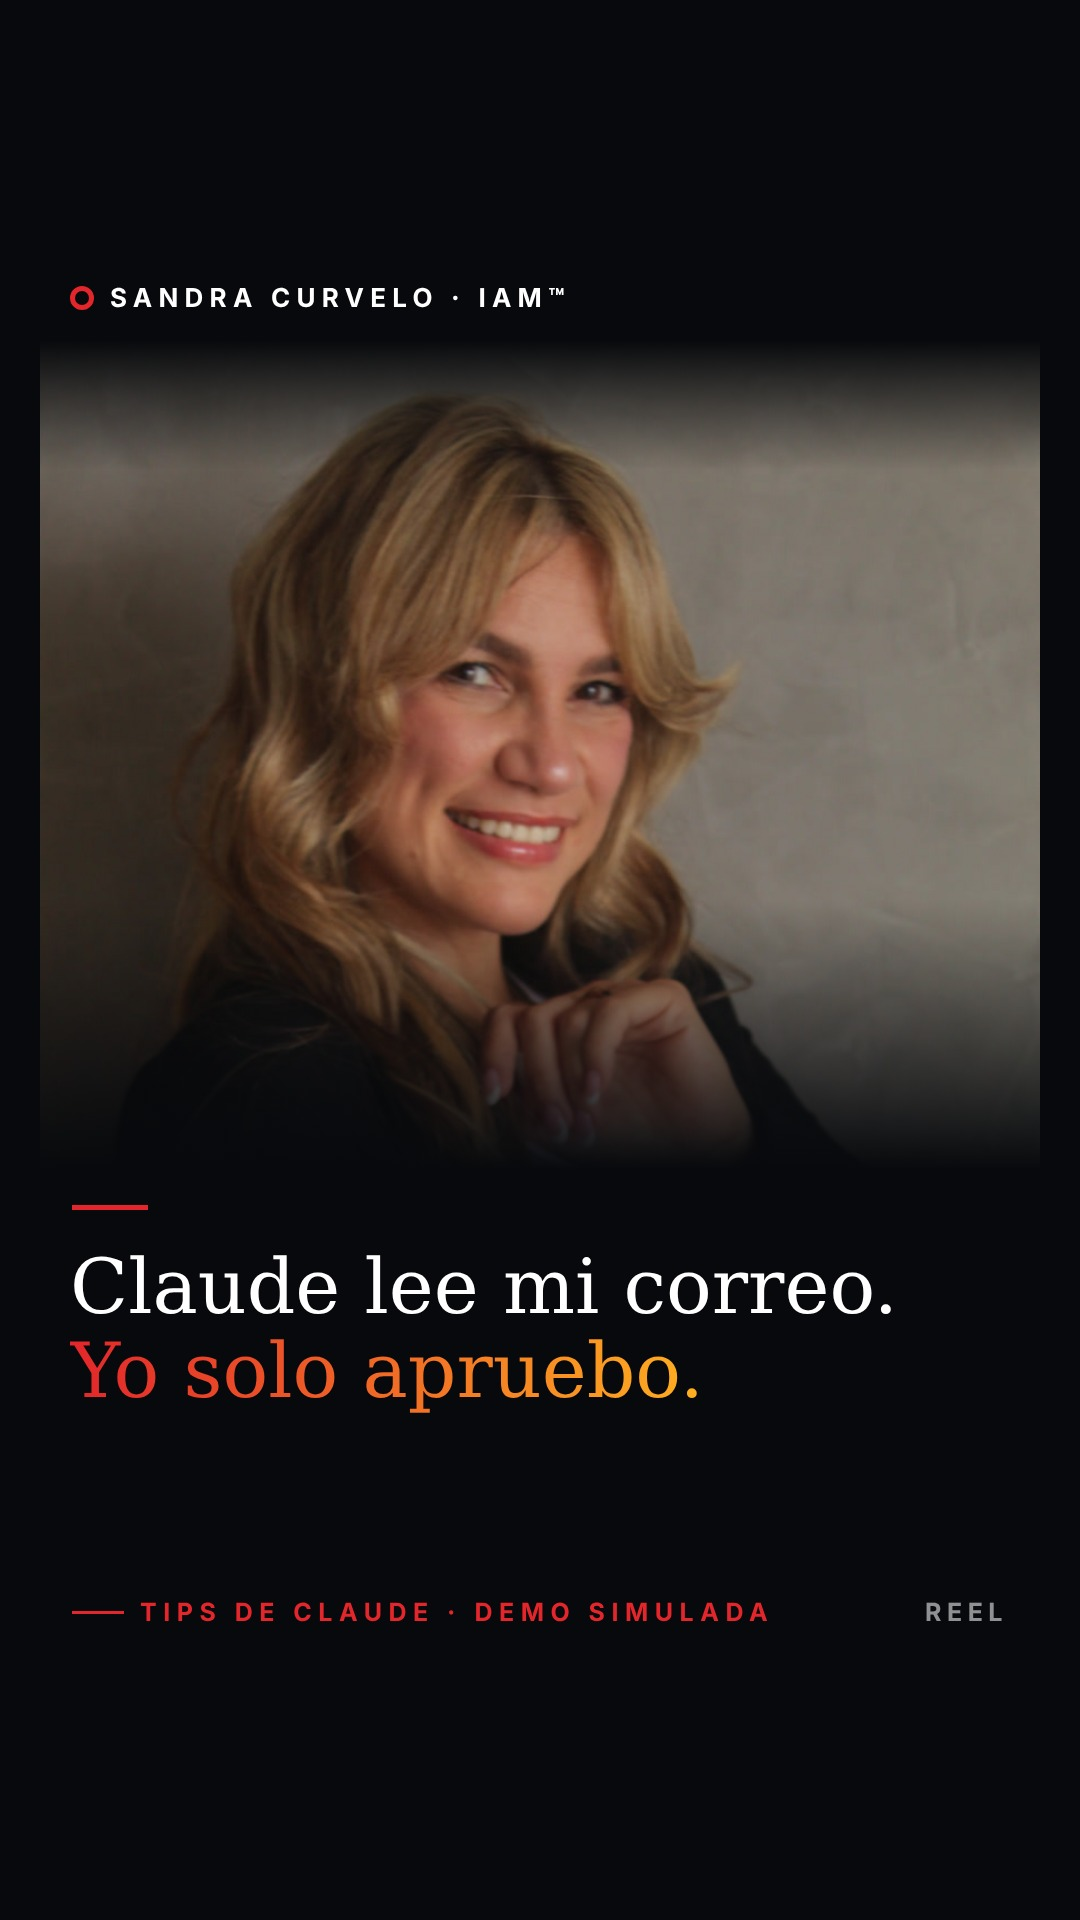
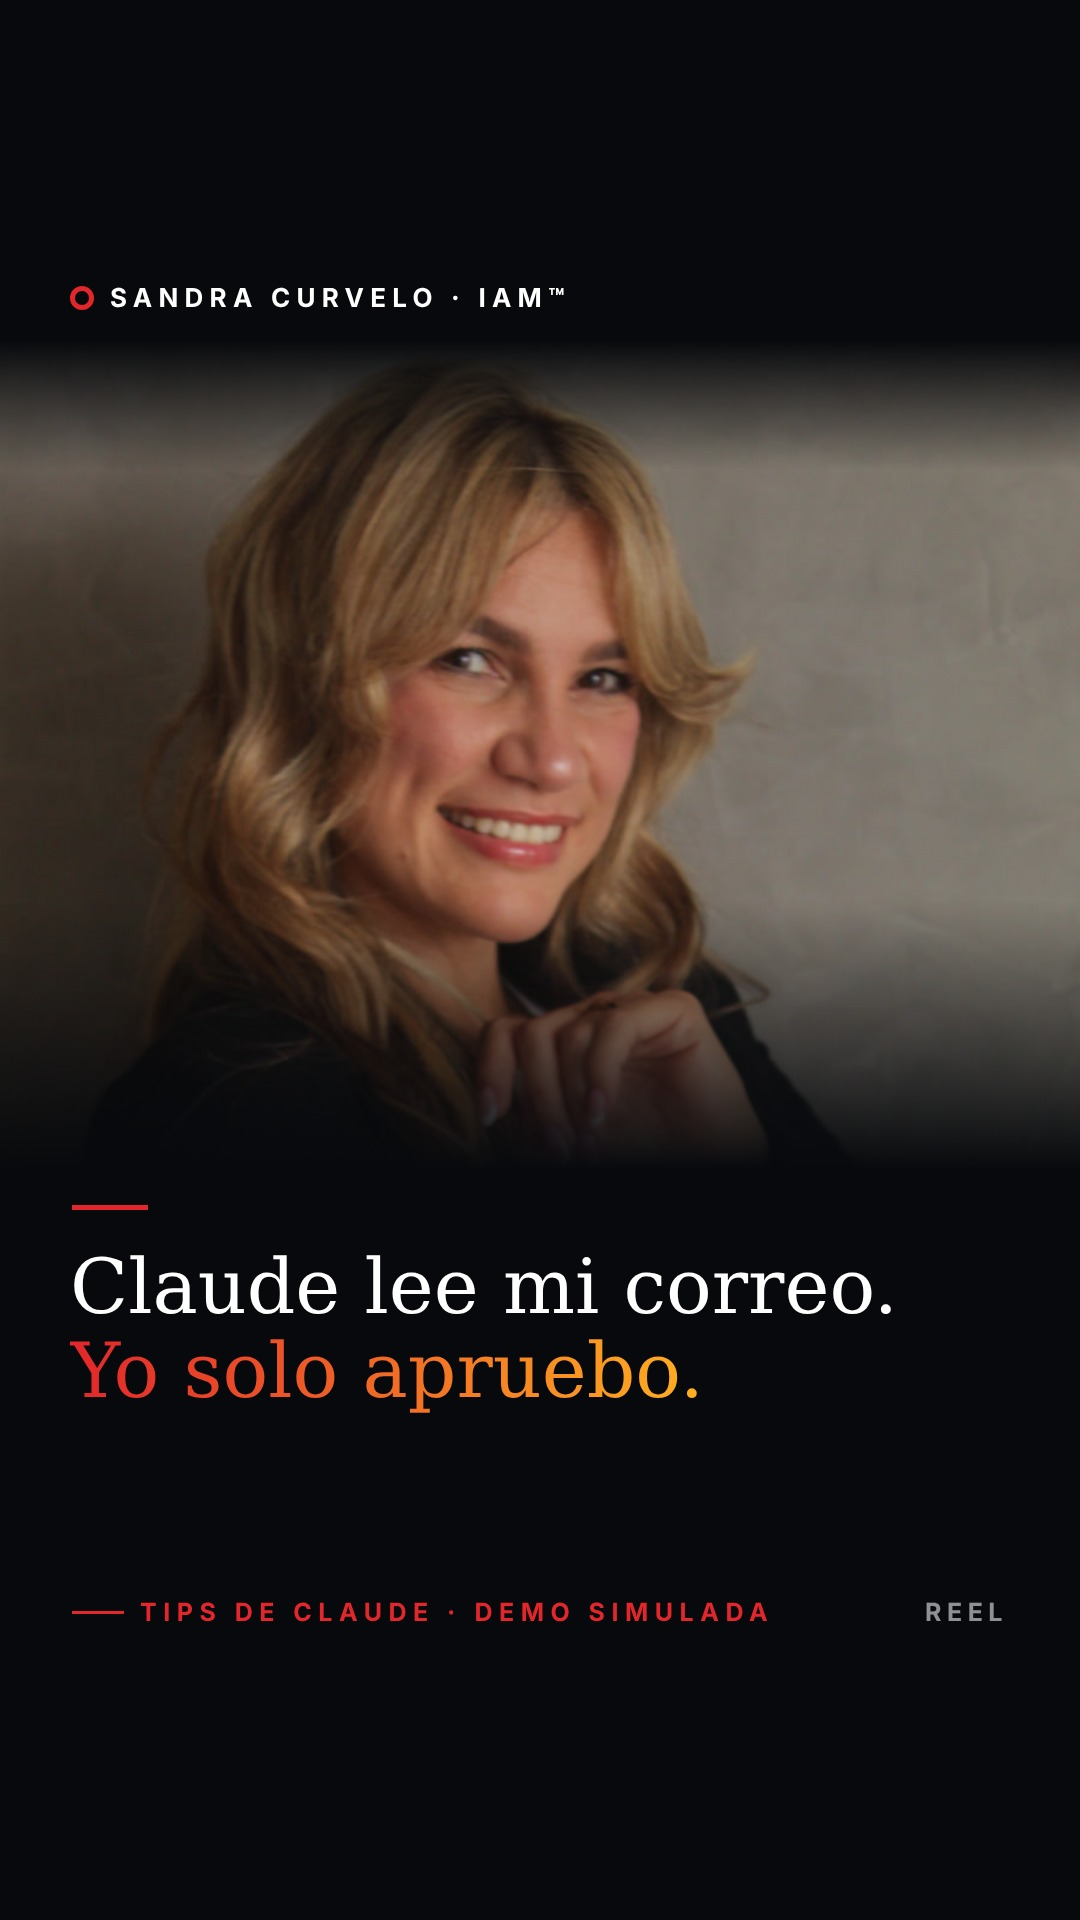
Portadas: foto a todo el ancho y ajuste de encuadre
Claude-Session: https://claude.ai/code/session_01NfWH1YnxdbRLc9ZrUJbHYq

diff --git a/estrategia/instagram/diseno-feed/gen.py b/estrategia/instagram/diseno-feed/gen.py
@@ -1,12 +1,12 @@
 import sys
 P=[
 ("agentica","conectores.jpg","dark","Claude no solo escribe.","Trabaja por ti.","Tips de Claude",(1250,0,50)),
-("iae","iae2.jpg","dark","Pagaste la IA.","¿Alguien la usa?","Método IAE™",(1000,0,50)),
+("iae","iae2.jpg","dark","Pagaste la IA.","¿Alguien la usa?","Método IAE™",(1080,-40,50)),
 ("matia","robot.jpg","light","Claude actualiza","mi CRM.","Tips de Claude · Demo simulada",(1450,0,62)),
-("prospecta","gorra.jpg","light","Claude prospecta.","Yo apruebo.","Tips de Claude · Demo simulada",(900,0,50)),
+("prospecta","gorra.jpg","light","Claude prospecta.","Yo apruebo.","Tips de Claude · Demo simulada",(1080,-170,50)),
 ("alpina","alpina.jpg","dark","No llames en frío.","Llega sabiendo.","Recuerdos",(1300,-540,50)),
 ("udes","udes.jpg","light","No es interrupción.","Es intención.","Recuerdos",(1300,-430,58)),
-("correo","correo.jpg","dark","Claude lee mi correo.","Yo solo apruebo.","Tips de Claude · Demo simulada",(1000,0,50)),
+("correo","correo.jpg","dark","Claude lee mi correo.","Yo solo apruebo.","Tips de Claude · Demo simulada",(1080,-40,50)),
 ]
 css="""*{margin:0;padding:0;box-sizing:border-box}body{width:1080px}
 .c{position:relative;width:1080px;height:1920px;overflow:hidden;margin-bottom:10px}
